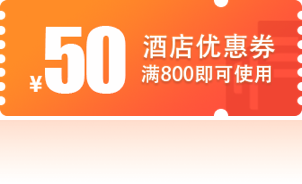
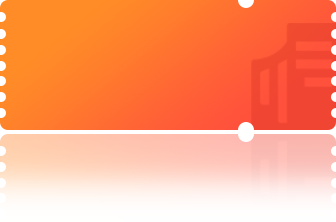
积分 汇率 未解决 地图

diff --git a/src/pages/integral/IntegralPage.js b/src/pages/integral/IntegralPage.js
@@ -3,7 +3,7 @@ import {
     ScrollView, Text, FlatList,
     StyleSheet,
     View, Image,
-    TouchableOpacity
+    TouchableOpacity, ImageBackground
 } from 'react-native';
 import {ApplicationStyles, Colors, Images, Metrics} from "../../Themes";
 import {postIntegralTask, postAward, getIntrgralCoupon} from '../../services/IntegralDao';
@@ -11,8 +11,6 @@ import {isEmptyObject} from "../../utils/ComonHelper";
 import {getProfile} from "../../services/AccountDao";
 import {ImageLoad} from '../../components'
 import IntegralBar from './IntegralBar';
-
-const images = [1, 2, 3];
 
 export default class IntegralPage extends Component {
 
@@ -29,7 +27,7 @@ export default class IntegralPage extends Component {
             unfinished: this.unfinished,
             finished: [],
             total_points: 0,
-            coupons:[]
+            coupons: []
         };
     }
 
@@ -57,9 +55,9 @@ export default class IntegralPage extends Component {
         })
 
         getIntrgralCoupon({page_size: 3}, data => {
-            console.log("积分商城三条数据：",data)
+            console.log("积分商城三条数据：", data)
             this.setState({
-                coupons:data.items
+                coupons: data.items
             })
         }, err => {
 
@@ -69,7 +67,7 @@ export default class IntegralPage extends Component {
 
 
     render() {
-        const {unfinished, finished, total_points,coupons} = this.state;
+        const {unfinished, finished, total_points, coupons} = this.state;
 
         return (
             <View style={ApplicationStyles.bgContainer}>
@@ -107,15 +105,39 @@ export default class IntegralPage extends Component {
                             </TouchableOpacity>
                         </View>
                         <View style={[styles.mallLeft, styles.rowMillide, {marginTop: 29}]}>
-                            {coupons.map((item,index) => {
-                               return <TouchableOpacity key={index} style={[styles.mallBottomView]}
-                                                  onPress={() => {
-                                                      global.router.toIntegralInfoPage(item.id, total_points)
-                                                  }}>
-                                   <ImageLoad key={index} style={{height: 52, width: 83}}
-                                              source={{uri:item.cover_link}}/>
-                                   <Text style={{color: "#444444", fontSize: 14, fontWeight: 'bold',marginTop:11,width:80}}>
-                                       {item.name}</Text>
+                            {coupons.map((item, index) => {
+                                return <TouchableOpacity key={index} style={[styles.mallBottomView]}
+                                                         onPress={() => {
+                                                             global.router.toIntegralInfoPage(item.id, total_points)
+                                                         }}>
+                                    <ImageLoad style={{height: 52,width: 83}} source={{uri:item.cover_link}}/>
+                                    {/*<ImageBackground key={index} style={{*/}
+                                        {/*height: 32,*/}
+                                        {/*width: 83,*/}
+                                        {/*flexDirection: 'row',*/}
+                                        {/*alignItems: 'center'*/}
+                                    {/*}}*/}
+                                                     {/*source={Images.integral.couponTop}>*/}
+                                        {/*<Text style={{color: "#F34247", fontSize: 12, marginLeft: 7}}>¥<Text*/}
+                                            {/*style={{fontSize: 20, fontWeight: 'bold'}}>{item.reduce_price}</Text></Text>*/}
+                                        {/*<View style={{width: 120, flexDirection: 'column'}}>*/}
+                                            {/*<Text style={{color: "#444444", fontSize: 7, marginLeft: 5}}>{item.name}</Text>*/}
+                                            {/*<Text style={{*/}
+                                                {/*color: "#444444",*/}
+                                                {/*fontSize: 7,*/}
+                                                {/*marginTop: 3*/}
+                                            {/*}}>{item.short_desc}</Text>*/}
+                                        {/*</View>*/}
+                                    {/*</ImageBackground>*/}
+                                    {/*<ImageLoad style={{height: 21,width: 83}} source={Images.integral.couponBootom}/>*/}
+                                    <Text style={{
+                                        color: "#444444",
+                                        fontSize: 14,
+                                        fontWeight: 'bold',
+                                        marginTop: 11,
+                                        width: 80
+                                    }}>
+                                        {item.name}</Text>
                                     {/*<Text style={{color: "#AAAAAA", fontSize: 12}}>可抵扣50元</Text>*/}
                                     <Text style={{color: "#E54A2E", fontSize: 12, marginTop: 9}}>{item.integrals}<Text
                                         style={{color: "#444444", fontSize: 12}}>积分</Text></Text>
@@ -260,11 +282,11 @@ export default class IntegralPage extends Component {
 };
 const styles = StyleSheet.create({
     rowMillide: {
-        flexDirection: 'row',alignItems:'center'
+        flexDirection: 'row', alignItems: 'center'
     },
     mallBottomView: {
         flexDirection: 'column',
-        width:'38%'
+        width: '38%'
     },
     mallLeft: {
         marginLeft: 17, marginRight: 17

diff --git a/src/pages/coupon/CouponPage.js b/src/pages/coupon/CouponPage.js
@@ -37,9 +37,9 @@ export default class CouponPage extends Component {
             let using_coupons = [];
             let expired_coupons = [];
             data.items.forEach((item) => {
-                if (item.status === 'used') {
+                if (item.status === 'unused' || item.status === 'refund') {
                     using_coupons.push(item)
-                } else if (item.status === 'expired') {
+                } else if (item.status === 'expired' || item.status === 'used') {
                     expired_coupons.push(item)
                 }
             });
@@ -63,7 +63,7 @@ export default class CouponPage extends Component {
     };
 
     _renderItem = (item) => {
-        const {begin_date, coupon_type, cover_link, end_date, name, short_desc} = item.item;
+        const {begin_date, coupon_type, cover_link, end_date, name, short_desc,reduce_price,limit_price} = item.item;
         const {selectId} = this.state;
         return (
             <ImageBackground
@@ -73,8 +73,8 @@ export default class CouponPage extends Component {
                     <View style={[styles.itemLeft]}>
                         <View style={{flexDirection: 'row', alignItems: 'center'}}>
                             <Text style={{color: "#F34247", fontSize: 18}}>¥<Text
-                                style={{fontSize: 50, fontWeight: 'bold'}}>50</Text></Text>
-                            <View style={{width: 150}}>
+                                style={{fontSize: 40, fontWeight: 'bold'}}>{reduce_price}</Text></Text>
+                            <View style={{width: 120,flexDirection:'column'}}>
                                 <Text style={{color: "#444444", fontSize: 20, marginLeft: 16}}>{name}</Text>
                             </View>
 
@@ -85,7 +85,7 @@ export default class CouponPage extends Component {
                     </View>
                     <View style={{flex: 1}}/>
                     <View style={[styles.itemLeft, {alignItems: 'center'}]}>
-                        <Text style={{color: "#666666", fontSize: 16}}>剩30日</Text>
+                        {/*<Text style={{color: "#666666", fontSize: 16}}>剩30日</Text>*/}
                         <TouchableOpacity
                             style={[styles.touchView, {backgroundColor: selectId === 0 ? "#FF4C4C" : "#ECECEE"}]}
                             onPress={() => {

diff --git a/src/utils/ComonHelper.js b/src/utils/ComonHelper.js
@@ -59,37 +59,27 @@ export const picker = {
  * @param targetAppName
  * @param name
  */
-export function turn2MapMark(lon = 0, lat = 0, targetAppName = 'gaode', name = '目标地址'){
-    if (0 == lat && 0 == lon) {
-        console.warn('暂时不能导航');
-        return;
-    }
+export function turn2MapMark(poiid = 'B000AAFAC5'){
 
-    console.log(lon,lat,name)
 
+    let targetAppName = 'gaode'
     let url = '';
-    let webUrl = `http://uri.amap.com/marker?position=${lon},${lat}&name=${name}&src=mypage&coordinate=gaode&callnative=0`;
-    let webUrlGaode = `http://uri.amap.com/marker?position=${lon},${lat}&name=${name}&src=mypage&coordinate=gaode&callnative=0`;
-    let webUrlBaidu = `http://api.map.baidu.com/marker?location=${lat},${lon}&title=${name}&content=${name}&output=html`;
+    let webUrl = `http://uri.amap.com/poidetail?poiid=${poiid}&src=macuahike&callnative=0`;
+    let webUrlGaode = `http://uri.amap.com/poidetail?poiid=${poiid}&src=macuahike&callnative=0`;
+
 
     url = webUrl;
-    if (Platform.OS == 'android') {//android
+    if (Platform.OS === 'android') {//android
 
-        if (targetAppName == 'gaode') {
-            url = `androidamap://viewMap?sourceApplication=appname&poiname=${name}&lat=${lat}&lon=${lon}&dev=0`;
+        if (targetAppName === 'gaode') {
+            url = `androidamap://uri.amap.com/poidetail?poiid=${poiid}&src=macuahike&callnative=1`;
             webUrl = webUrlGaode;
-        } else if (targetAppName == 'baidu') {
-            url = `baidumap://map/marker?location=${lat},${lon}&title=${name}&content=${name}&traffic=on`;
-            webUrl = webUrlBaidu;
         }
-    } else if (Platform.OS == 'ios') {//ios
+    } else if (Platform.OS === 'ios') {//ios
 
-        if (targetAppName == 'gaode') {
-            url = `iosamap://viewMap?sourceApplication=applicationName&poiname=${name}&lat=${lat}&lon=${lon}&dev=1`;
+        if (targetAppName === 'gaode') {
+            url = `iosamap://uri.amap.com/poidetail?poiid=${poiid}&src=macuahike&callnative=1`;
             webUrl = webUrlGaode;
-        } else if (targetAppName == 'baidu') {
-            url = `baidumap://map/marker?location=${lat},${lon}&title=${name}&content=${name}&src=webapp.marker.desh.macuahike`;
-            webUrl = webUrlBaidu;
         }
 
     }

diff --git a/src/pages/macau/HotelDetail.js b/src/pages/macau/HotelDetail.js
@@ -8,7 +8,7 @@ import Swiper from 'react-native-swiper';
 import {hotelDetail} from '../../services/MacauDao';
 import RenderHtml from '../comm/RenderHtml';
 import {NavigationBar} from '../../components'
-import {call} from '../../utils/ComonHelper'
+import {call,turn2MapMark} from '../../utils/ComonHelper'
 
 const styles = StyleSheet.create({
     banner: {
@@ -84,7 +84,7 @@ export default class HotelDetail extends PureComponent {
 
     render() {
 
-        const {images, location, title, description, telephone} = this.state.hotel;
+        const {images, location, title, description, telephone,amap_poiid} = this.state.hotel;
         return <View style={ApplicationStyles.bgContainer}>
 
 
@@ -95,15 +95,18 @@ export default class HotelDetail extends PureComponent {
                 <Banner banners={images}/>
 
                 <View style={styles.nav_view}>
-                    <View style={{flexDirection: 'column', marginLeft: 17,width:'60%'}}>
+                    <TouchableOpacity style={{flexDirection: 'column', marginLeft: 17,width:'60%'}}
+                    onPress={()=>{
+                        turn2MapMark(amap_poiid)
+                    }}>
                         <Text style={styles.title}>{title}</Text>
                         <View style={{flexDirection: 'row', alignItems:'center',marginTop:5}}>
                             <Text style={styles.location}>{location}</Text>
-                            {/*<Image style={{height: 14, width: 10, marginLeft: 19}}*/}
-                                   {/*source={Images.macau.location}/>*/}
-                            {/*<Text style={{color:"#4A90E2",fontSize:12, marginLeft: 4}}>地图</Text>*/}
+                            <Image style={{height: 14, width: 10, marginLeft: 19}}
+                                   source={Images.macau.location}/>
+                            <Text style={{color:"#4A90E2",fontSize:12, marginLeft: 4}}>地图</Text>
                         </View>
-                    </View>
+                    </TouchableOpacity>
 
                     {/*<View style={{flex:1}}/>*/}
 

diff --git a/src/pages/macau/RatePage.js b/src/pages/macau/RatePage.js
@@ -22,7 +22,7 @@ export default class RatePage extends Component {
         getExchange_rates(data => {
             console.log("ratesItem:", data)
             this.setState({
-                ratesItem: data.data
+                ratesItem: data
             })
         }, err => {
 
@@ -54,8 +54,8 @@ export default class RatePage extends Component {
                     leftImageStyle={{height: 19, width: 11, marginLeft: 20, marginRight: 20}}
                     leftBtnPress={() => router.pop()}/>
 
-                <View style={styleR.page}>
-                    <Text style={styleR.txt}>今日汇率：</Text>
+                <View style={styles.page}>
+                    <Text style={styles.txt}>今日汇率：</Text>
                     <View style={{flexDirection: 'row'}}>
                         <Text>{`1人名币=1.2101港币，1港币=${cny_to_hkd_rate.rate}人名币`}</Text>
                         <Text>{`1人名币=1.2101澳门币，1澳门币=${cny_to_mop_rate.rate}人名币`}</Text>
@@ -92,7 +92,7 @@ export default class RatePage extends Component {
     }
 }
 
-const styleR = StyleSheet.create({
+const styles = StyleSheet.create({
     itemPage: {
         flexDirection: 'row',
         alignItems: 'center',

diff --git a/src/pages/comm/PayAction.js b/src/pages/comm/PayAction.js
@@ -208,11 +208,15 @@ export default class PayAction extends Component {
         const {type} = this.props;
         const {order} = this.state;
 
+        let pay_result = '';
+
         if (type === 'hotel') {
             url = Api.hotel_wxPay(order)
+            pay_result = Api.hotel_wx_paid_result(order)
         }
         if (type === 'mall') {
             url = Api.mall_wxPay(order)
+            pay_result = Api.wx_paid_result(order)
         }
 
         helper.post(url, {}, ret => {
@@ -221,7 +225,13 @@ export default class PayAction extends Component {
                 if (install) {
                     payWx(ret.data, ret => {
                         console.log('支付成功', ret)
-                        this.pay_handle()
+
+                        helper.get(pay_result,data=>{
+                            this.pay_handle()
+                        },err=>{
+                            this.pay_handle()
+                        })
+
                     }, err => {
                         console.log('支付失败', err)
                         // 酒店预定和商品购买状态页面

diff --git a/src/Themes/Images.js b/src/Themes/Images.js
@@ -371,7 +371,9 @@ const images = {
         renwu:require('../../source/integral/renwu.png'),
         share:require('../../source/integral/share.png'),
         tiezi:require('../../source/integral/tiezi.png'),
-        coupon: require('../../source/integral/coupon.png')
+        coupon: require('../../source/integral/coupon.png'),
+        couponTop:require('../../source/integral/couponTop.png'),
+        couponBootom:require('../../source/integral/couponBootom.png')
     },
     coupon:{
         background:require('../../source/coupon/background2.png'),

diff --git a/src/services/MacauDao.js b/src/services/MacauDao.js
@@ -2,7 +2,7 @@ import * as helper from './RequestHelper';
 import Api from '../configs/ApiConfig';
 
 
-export function getExchange_rates(body, resolve, reject) {
+export function getExchange_rates(resolve, reject) {
     helper.get(Api.exchange_rates, ret => {
         resolve(ret.data)
     }, reject)
